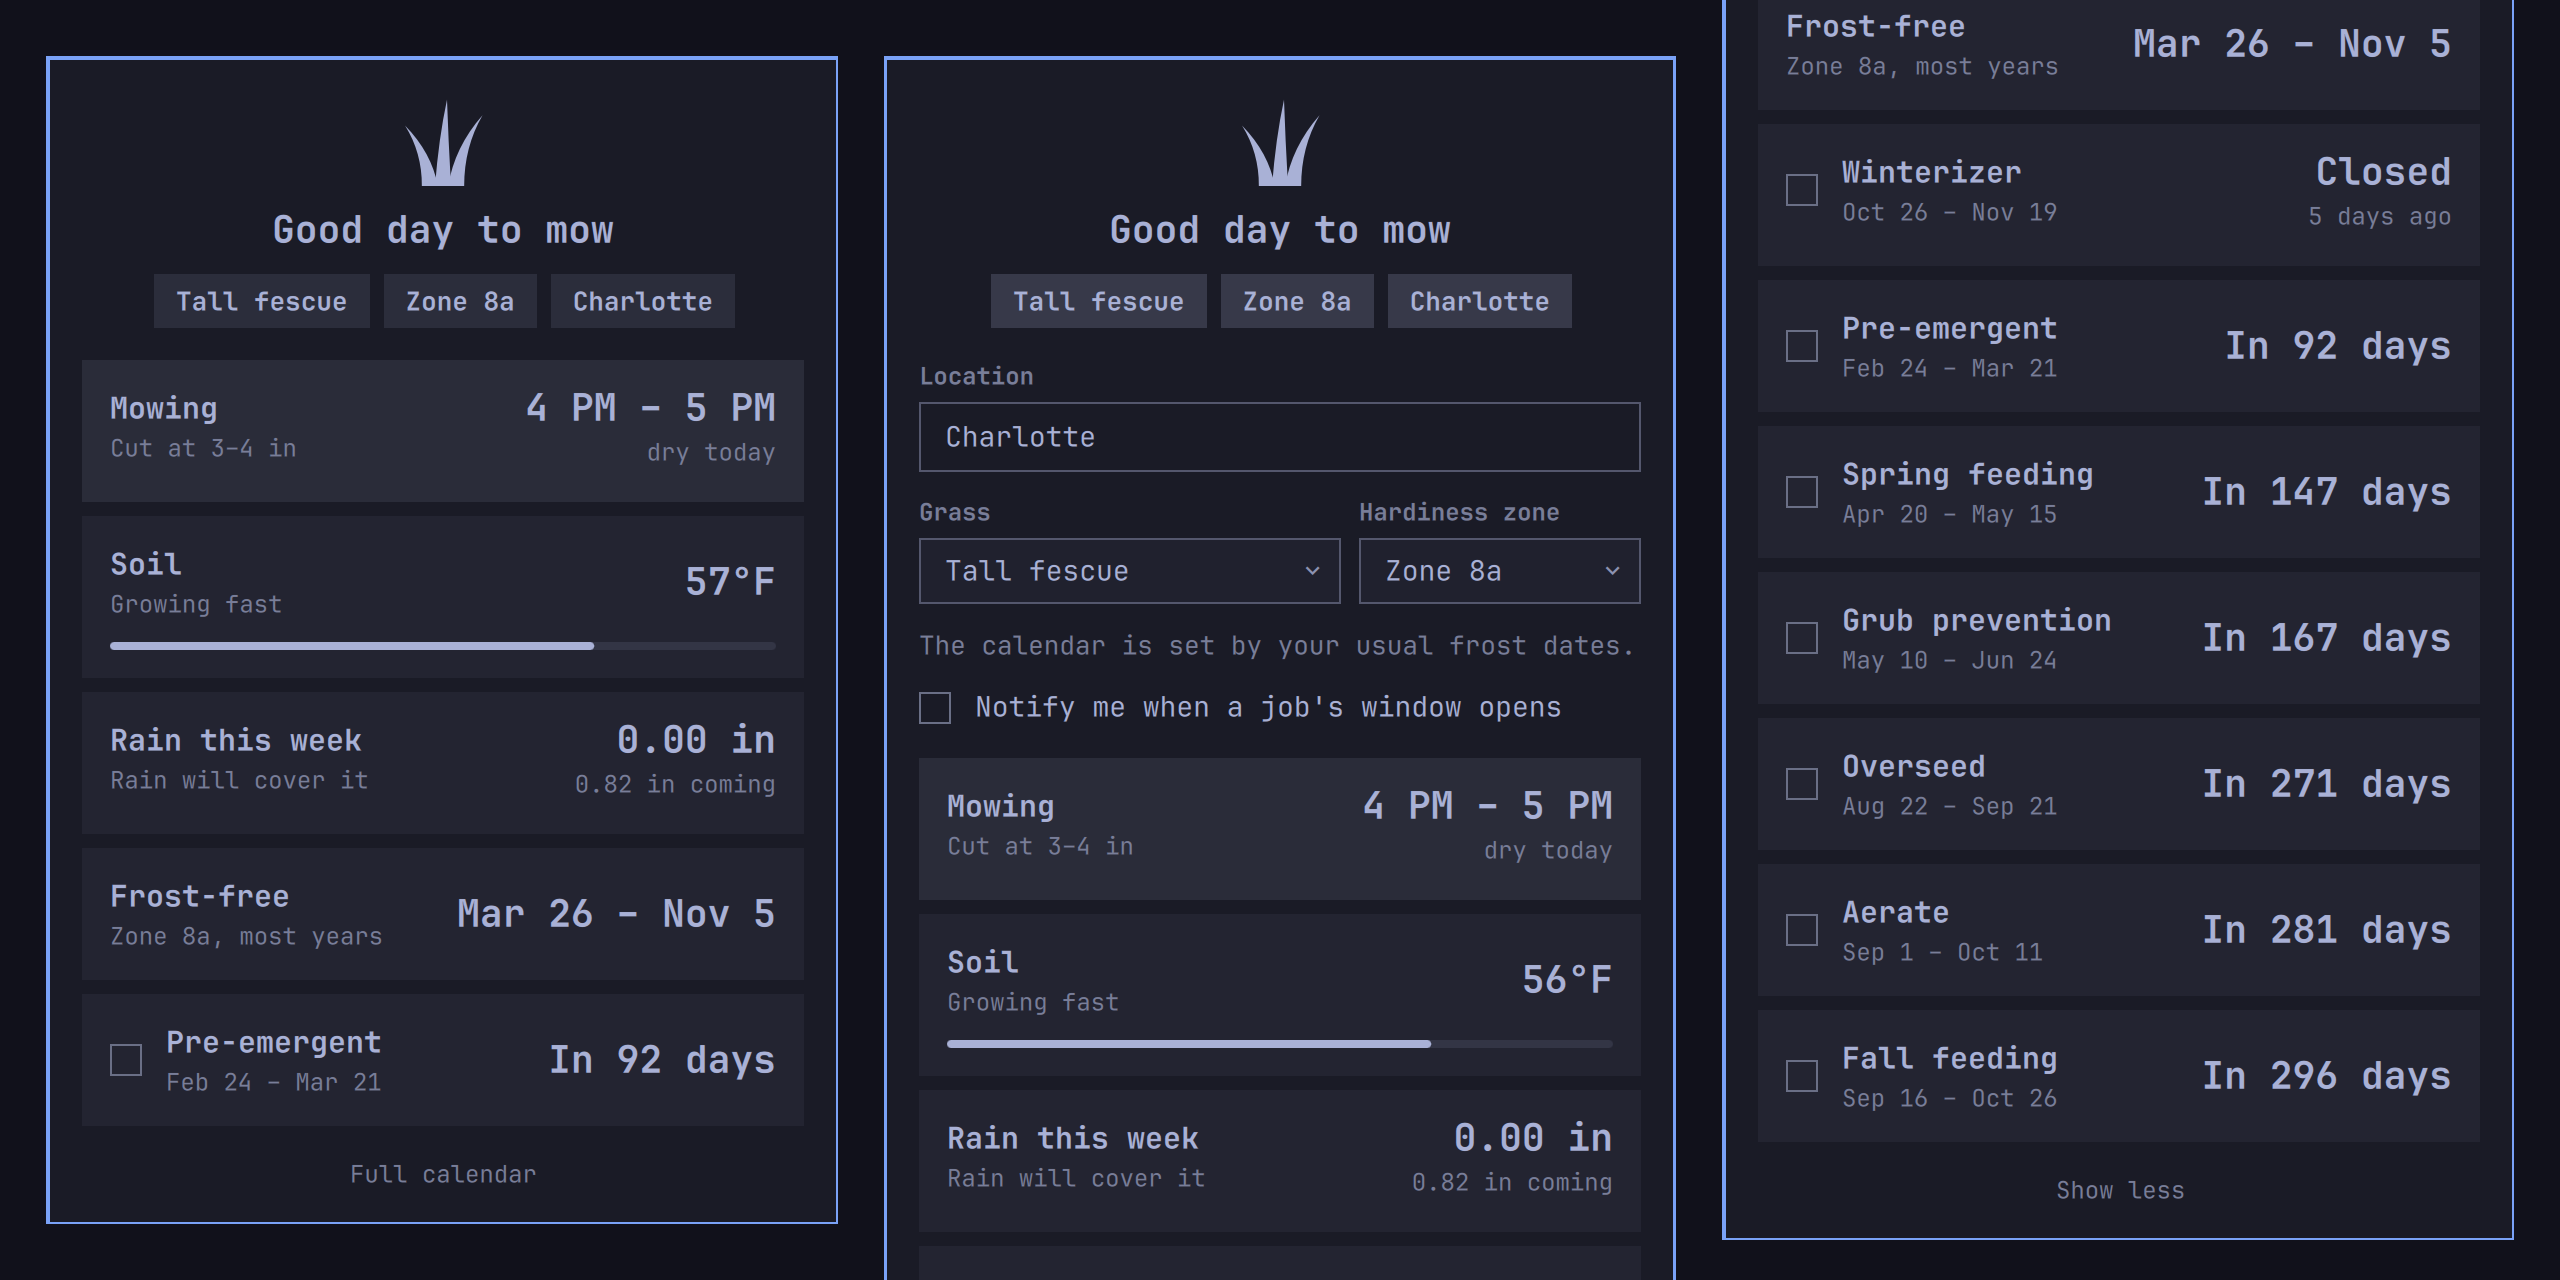
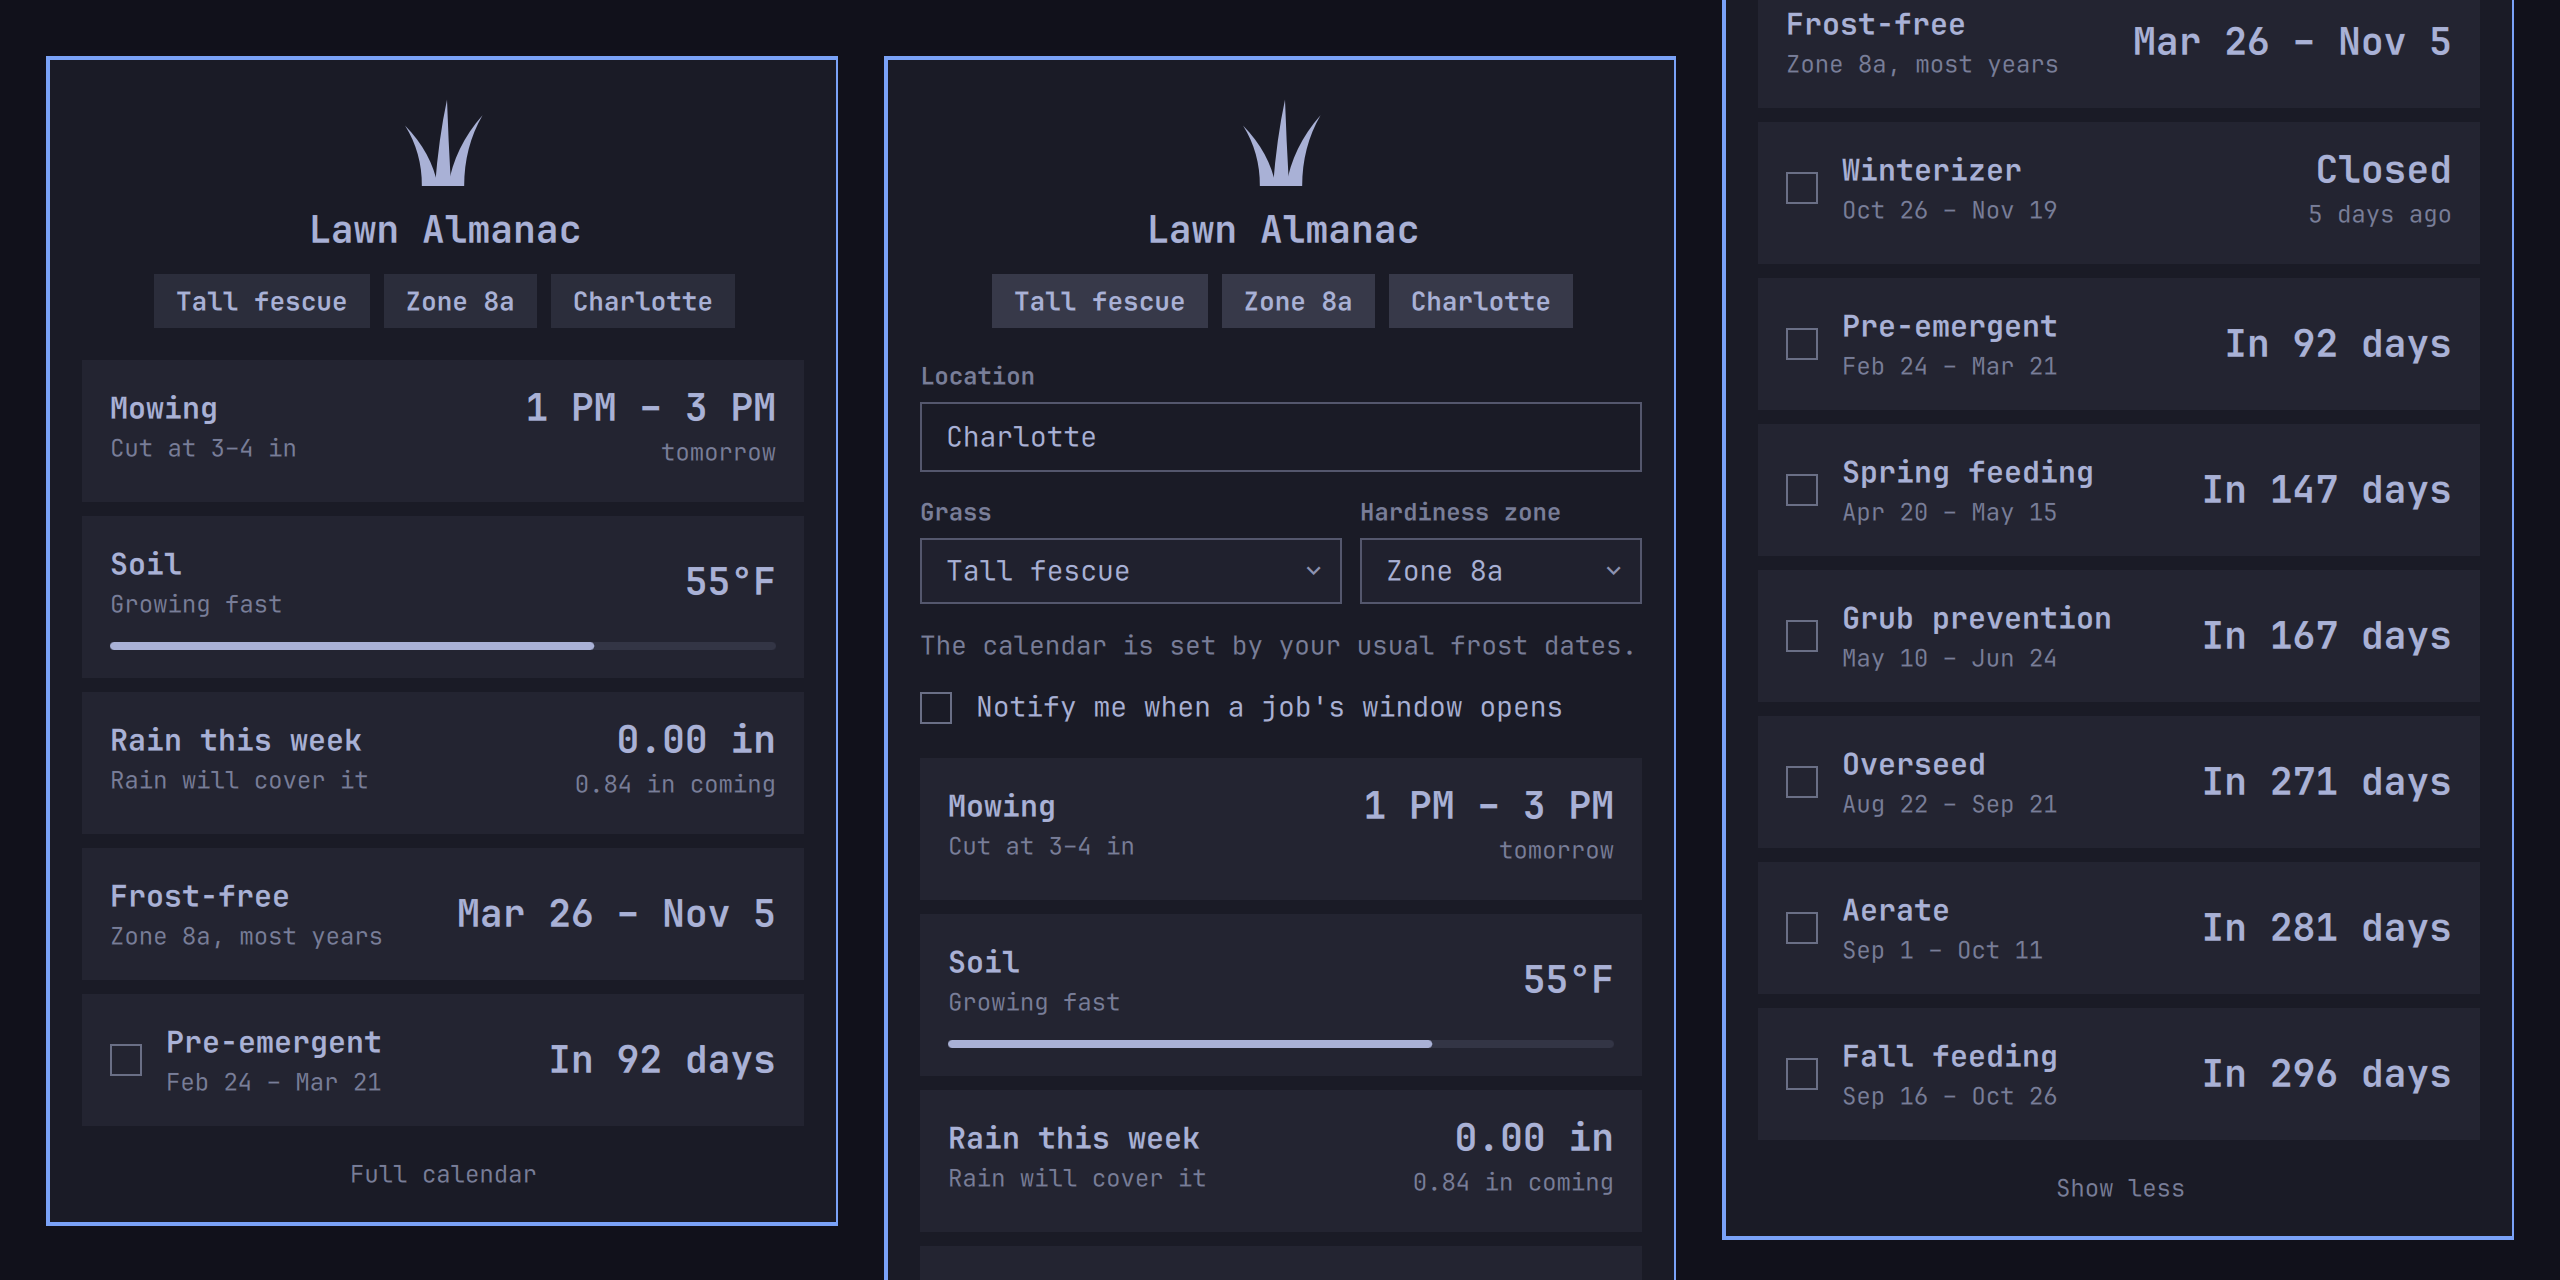
Lawn Almanac 1.1.0: a fixed title, the new name, and a new preview
The panel's header now reads "Lawn Almanac" instead of a headline that
changed with the day; the Mowing card already gives the same verdict.
The plugin's display name follows, and the preview shows the new title.

diff --git a/tests/model.test.js b/tests/model.test.js
@@ -649,7 +649,7 @@ test("the only text sent to a shared sink goes through plainText", () => {
   // One notification call, in the service, with both strings neutralized.
   const sends = allQml.match(/omarchy-notification-send[^\n]*/g)
   assert.equal(sends.length, 1)
-  assert.match(sends[0], /"--app-name", "Lawn", Model\.plainText\(headline\), Model\.plainText\(body\)\]\)/)
+  assert.match(sends[0], /"--app-name", "Lawn Almanac", Model\.plainText\(headline\), Model\.plainText\(body\)\]\)/)
   assert.equal(qml["Service.qml"].includes(sends[0]), true)
 })
 
@@ -675,7 +675,6 @@ test("network access is fixed, HTTPS, timed, capped, and all in the service", ()
 test("every string the panel asks for is in the English catalog", () => {
   const keys = new Set()
   for (const match of allQml.matchAll(/(?:words|wording|strings)\.tn?\("([^"]+)"/g)) keys.add(match[1])
-  for (const state of ["none", "resting", "today", "tomorrow", "wet", "hot"]) keys.add("headline." + state)
   for (const state of ["resting", "today", "tomorrow", "wet", "hot"]) keys.add("mow." + state)
   for (const pace of ["fast", "steady", "slow", "none"]) keys.add("pace." + pace)
   for (const status of ["resting", "ok", "rain", "give"]) keys.add("water." + status)

diff --git a/Service.qml b/Service.qml
@@ -411,7 +411,7 @@ Item {
       var body = strings.t("notify.job.body")
       // The notification daemon renders markup, so the text goes through
       // plainText first; it is passed as arguments, never through a shell.
-      Quickshell.execDetached(["omarchy-notification-send", "--app-name", "Lawn", Model.plainText(headline), Model.plainText(body)])
+      Quickshell.execDetached(["omarchy-notification-send", "--app-name", "Lawn Almanac", Model.plainText(headline), Model.plainText(body)])
     }
     notified = Model.parseNotified(Model.serialiseNotified(keys))
     notifiedFile.setText(Model.serialiseNotified(keys))

diff --git a/Panel.qml b/Panel.qml
@@ -330,7 +330,7 @@ Panel {
             PlainText {
               anchors.horizontalCenter: parent.horizontalCenter
               width: Math.min(implicitWidth, parent.width)
-              text: wording.t("headline." + (lawn.store.mowingState || "none"))
+              text: wording.t("title")
               font.pixelSize: Style.font.heading
               font.weight: Font.DemiBold
               elide: Text.ElideRight

diff --git a/README.md b/README.md
@@ -1,13 +1,13 @@
-# Lawn
+# Lawn Almanac
 
 An Omarchy shell plugin for people who love their grass. Nothing to log and nothing to keep up: it reads the weather and the calendar and tells you what they mean for the lawn.
 
-![The Lawn panel: today, the grass, zone and town settings, and the full calendar](preview.png)
+![The Lawn Almanac panel: today, the grass, zone and town settings, and the full calendar](preview.png)
 
 Click the grass in the bar for a short stack of cards:
 
-- **Header:** what today is like ("Good day to mow", "Too wet to mow", "The lawn is resting"), and your grass, zone, and town as three chips. Click the chips to change any of them.
-- **Mowing:** the dry stretch of daylight to mow in, today or tomorrow, and the height to cut at.
+- **Header:** the name, Lawn Almanac, and your grass, zone, and town as three chips. Click the chips to change any of them.
+- **Mowing:** the dry stretch of daylight to mow in, today or tomorrow, and the height to cut at. It says so when it is too wet or too hot to mow, or the grass is not growing.
 - **Soil:** soil temperature and how fast the grass is growing.
 - **Rain this week:** what fell, what is coming, and whether to water.
 - **Frost-free:** the usual last frost of spring and first of fall, which the calendar hangs on.
